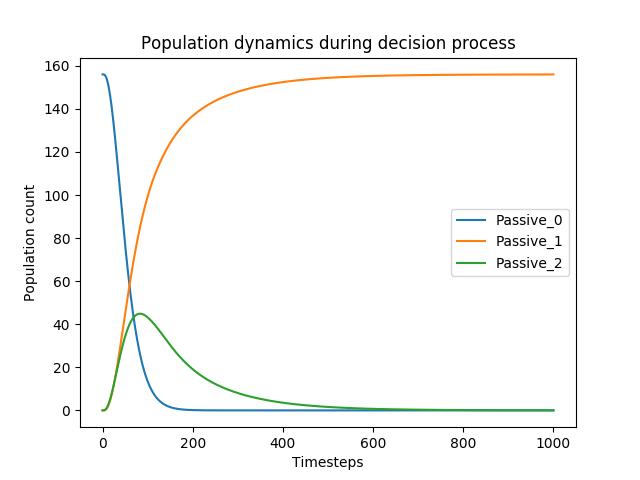
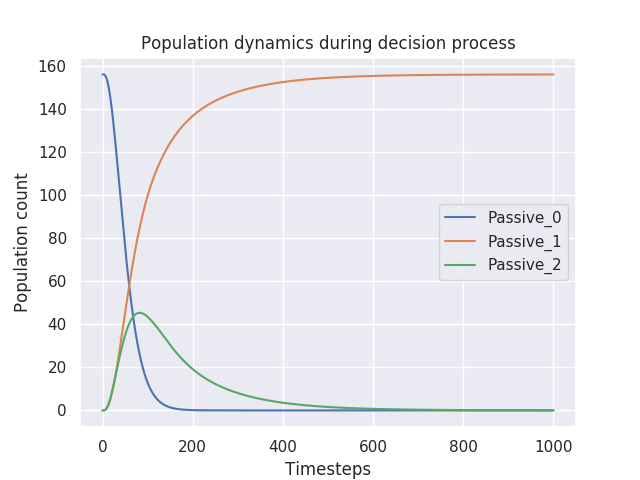
Updates saldyt 2018

diff --git a/saldyt_2018/split_recruiters.py b/saldyt_2018/split_recruiters.py
@@ -11,6 +11,8 @@ import numpy as np
 
 from collections import defaultdict
 
+sns.set()
+
 # plt.rcParams.update({
 #     "lines.color": "white",
 #     "patch.edgecolor": "white",
@@ -43,14 +45,8 @@ rho[(2, 1)] = 0.008
 # SearchC(L) = 0.018
 # SearchC(C) = 0.0044
 
-alpha = [0.0, 0.015, 0.02]
+#alpha = [0.0, 0.015, 0.02]
 phi = [0.0, 0.13, 0.13]
-sigmaA  = [0.0, 0.0195, 0.0195]
-sigmaL  = [0.0, 0.018,  0.018]
-sigmaC  = [0.0, 0.044,  0.044]
-#sigmaA  = [0.0, 0.0,   0.0]
-#sigmaL  = [0.0, 0.0,   0.0]
-#sigmaC  = [0.0, 0.0,   0.0]
 lambdas = [0.0, 0.033, 0.033]
 tau     = 0.001
 
@@ -72,6 +68,7 @@ def Q(Population, i):
     #return int(A[i] + L[i] + C[i] + P[i] > T)
 
 def I(Ri, S):
+    return Ri * S
     return Ri if Ri < T and S > 0 else 0
 
 def dS(Population):
@@ -90,8 +87,7 @@ def dAi(Population, i):
 
 def dLi(Population, i):
     S, A, L, C, P = unpack(Population, M)
-    return (- sigmaL[i] * L[i] +
-           (alpha[i] * A[i]
+    return ((alpha[i] * A[i]
            - Q(Population, i)*L[i]
            + sum(rho[(j, i)]*L[j] -  rho[(i, j)]*L[i]
            #- sum(tau*C[j]*L[i]
@@ -99,7 +95,7 @@ def dLi(Population, i):
 
 def dCi(Population, i):
     S, A, L, C, P = unpack(Population, M)
-    return (Q(Population, i) * L[i] #- sigmaC[i] * C[i] -
+    return (Q(Population, i) * L[i]
                #sum(tau*C[j]*C[i] for j in range(M) if j != i) +
                + sum(
                    (rho[(j, i)]*C[j] -  rho[(i, j)]*C[i]) for j in range(M) if j != i))
@@ -140,7 +136,7 @@ for do_passive in [True, False]:
             if 'Passive' in label:
                 plt.plot(ts, pop, label=label)
         else:
-            if 'Passive' not in label:
+            if 'Passive' not in label and (i == 0 or (i - 1) % M != 0):
                 plt.plot(ts, pop, label=label)
 
     plt.legend(loc='center right', bbox_to_anchor=(1, 0.5))

diff --git a/saldyt_2018/alternative_switching.py b/saldyt_2018/alternative_switching.py
@@ -13,7 +13,7 @@ from collections import defaultdict
 
 sns.set()
 
-T = 20
+T = 10
 M = 3
 N = 208  # SD 99
 p = 0.25 # SD 0.1
